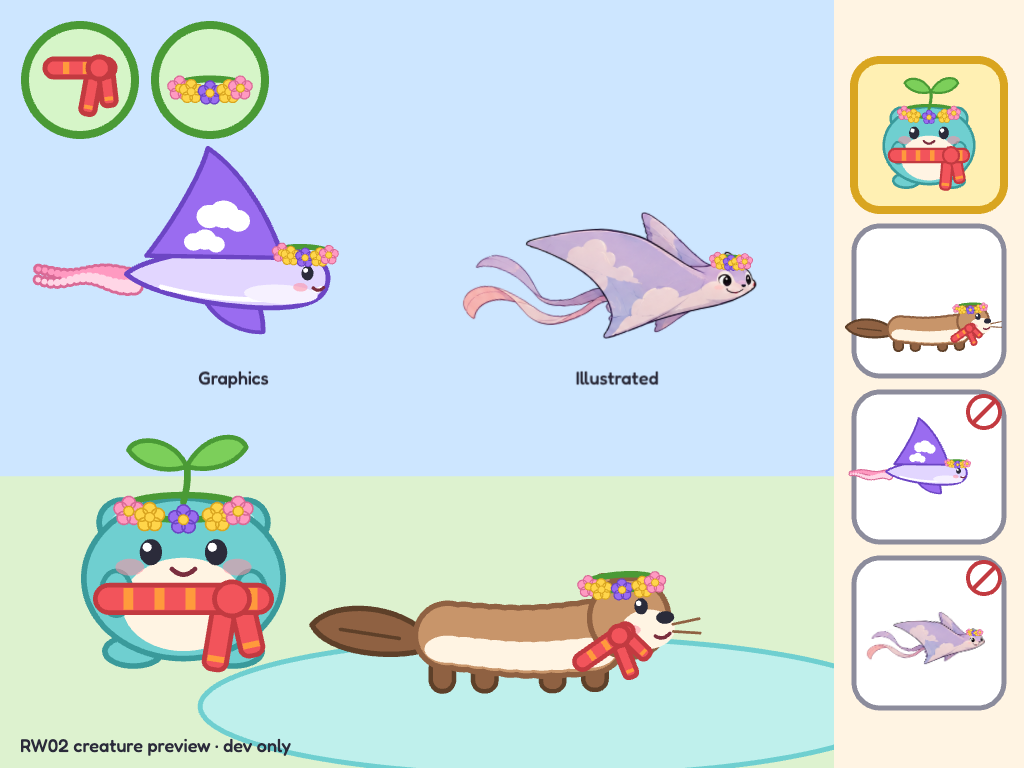
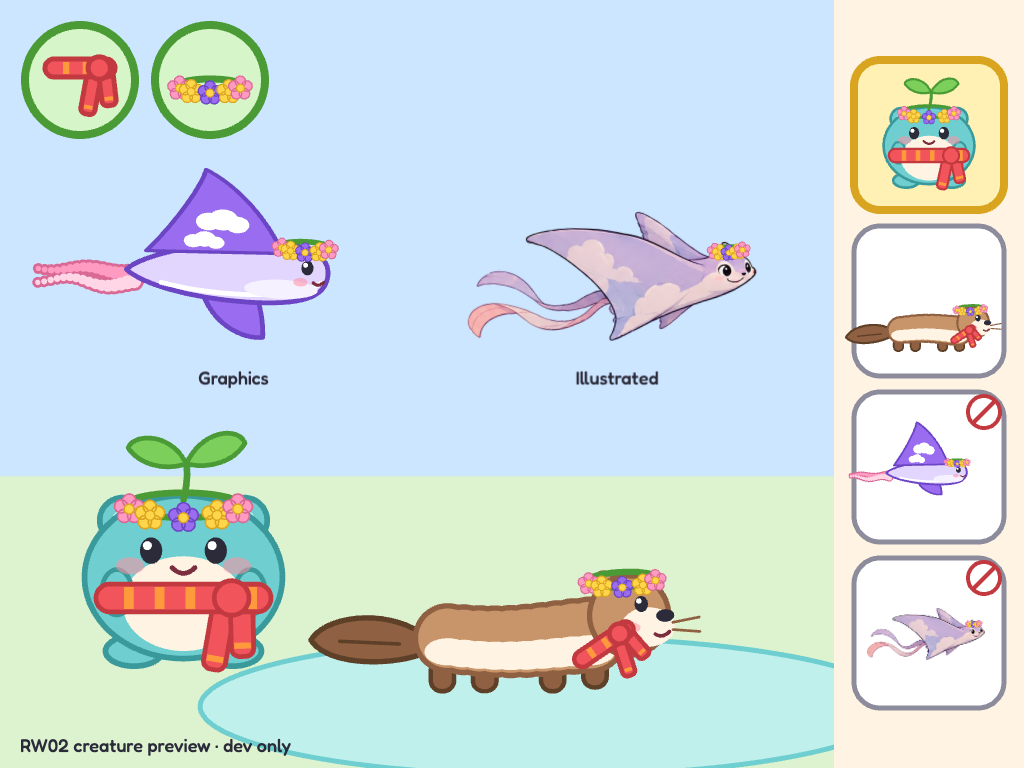
RW02b: no wing snap at reaction edges; mark generation step open
Accumulate the wingbeat phase and ease the reaction's strength, so the
start, end and re-tap of a reaction cannot jump the wing (a new test
bounds per-frame vertex movement; it failed at 15 px before). Refresh the
review images and word RW02b as partly done: candidate generation still
needs a session with an image tool.

diff --git a/src/art/creatures/glider-illustrated.ts b/src/art/creatures/glider-illustrated.ts
@@ -88,6 +88,10 @@ export class IllustratedGlider extends Creature {
   readonly rest: Float32Array;
   private readonly w: { wing: number; fin: number; ribbon: number; ribbonReach: number }[] = [];
   private readonly lids: Graphics[] = [];
+  /** Wingbeat phase, accumulated so a change of beat rate never jumps the wing. */
+  private phase = 0;
+  /** The reaction's excitement, eased, so a re-tap mid-reaction cannot snap the wing's size. */
+  private stir = 0;
 
   constructor(texture: Texture) {
     super();
@@ -129,7 +133,7 @@ export class IllustratedGlider extends Creature {
     this.animate();
   }
 
-  protected animate() {
+  protected animate(dt = 0) {
     const t = this.clock;
     const p = this.sincePoke;
     const looping = p < this.reactionLength;
@@ -141,8 +145,11 @@ export class IllustratedGlider extends Creature {
     this.craft.rotation = -a + 0.05 * Math.sin(t * 1.1);
 
     // A wingbeat is a wave from root to tip: the tip lags, so the wing bends rather than hinges.
-    const ex = this.excite(this.reactionLength);
-    const beat = looping ? 9 : 2.2;
+    // The beat quickens and slows with the reaction, and its phase accumulates, so nothing snaps.
+    this.stir += (this.excite(this.reactionLength) - this.stir) * Math.min(1, dt * 10);
+    const ex = this.stir;
+    this.phase += dt * (2.2 + 6.8 * ex);
+    const beat = this.phase;
     const lift = 16 + 22 * ex;
     const pos = this.mesh.geometry.positions;
     for (let i = 0, k = 0; i < pos.length; i += 2, k++) {
@@ -152,14 +159,14 @@ export class IllustratedGlider extends Creature {
       let dx = 0;
       let dy = 0;
       if (wing > 0) {
-        dy += lift * wing * Math.sin(t * beat - 1.1 * wing);
+        dy += lift * wing * Math.sin(beat - 1.1 * wing);
         // Drawn in towards the body as it rises, so the membrane keeps its length.
-        dx += 0.25 * lift * wing * wing * Math.cos(t * beat - 1.1 * wing);
+        dx += 0.25 * lift * wing * wing * Math.cos(beat - 1.1 * wing);
       }
-      if (fin > 0) dy -= 9 * (1 + ex) * fin * Math.sin(t * beat - 0.4);
+      if (fin > 0) dy -= 9 * (1 + ex) * fin * Math.sin(beat - 0.4);
       if (ribbon > 0) {
         const r = ribbonReach;
-        dy += ribbon * r * ((7 + 10 * ex) * Math.sin(t * 2.6 - 7 * r) + (looping ? 18 * Math.sin(u * Math.PI) : 0));
+        dy += ribbon * r * ((7 + 10 * ex) * Math.sin(t * 2.6 - 7 * r) + 18 * ex);
         dx += ribbon * r * 4 * Math.cos(t * 2.6 - 7 * r);
       }
       pos[i] = x + dx;

diff --git a/src/art/creatures/glider-illustrated.test.ts b/src/art/creatures/glider-illustrated.test.ts
@@ -114,6 +114,22 @@ describe('RW02b illustrated glider', () => {
     expect(Math.max(...ratios) - Math.min(...ratios)).toBeGreaterThan(0.5);
   });
 
+  it('never jumps between frames, at the start or end of a reaction or on a re-tap', () => {
+    const c = make();
+    for (let i = 0; i < 30; i++) c.update(1 / 60);
+    let prev = c.mesh.geometry.positions.slice();
+    let worst = 0;
+    for (let f = 0; f < 400; f++) {
+      if (f === 20 || f === 120 || f === 130) c.poke(); // into a reaction, past its end, then two quick taps
+      c.update(1 / 60);
+      const p = c.mesh.geometry.positions;
+      for (let i = 0; i < p.length; i += 2) worst = Math.max(worst, Math.hypot(p[i] - prev[i], p[i + 1] - prev[i + 1]));
+      prev = p.slice();
+    }
+    // The fastest honest motion (tip at full lift and the fast beat) is under 6 px a frame.
+    expect(worst).toBeLessThan(8);
+  });
+
   it('carries the crown through the loop and settles it back', () => {
     const c = make();
     dress(c, 'crown', true);

diff --git a/docs/rework/GENERATED-CREATURE-PILOT.md b/docs/rework/GENERATED-CREATURE-PILOT.md
@@ -1,6 +1,6 @@
 # RW02b: Generated creature art and animation pilot
 
-**Status:** pilot built 2026-10-17 ([PR #503](https://github.com/rjdunlap/neo/pull/503)); see [Pilot result](#pilot-result-2026-10-17). New candidate generation is still open: no image-generation tool was available to the building session. Defined 2026-10-17 as a follow-up to [RW02 / PR #499](https://github.com/rjdunlap/neo/pull/499), before production art is consumed by RW05. [Work-item index](WORK-ITEMS.md#rw02b-generated-creature-art-and-animation-pilot).
+**Status:** partly done. On 2026-10-17 ([PR #503](https://github.com/rjdunlap/neo/pull/503)) the preparation pipeline, mesh rig and comparison were proven on a stand-in cut from the concept sheet; see [Pilot result](#pilot-result-2026-10-17). **First-slice step 1 (generate candidates) is still ready** for a session that has an image-generation tool; the building session had none. Defined 2026-10-17 as a follow-up to [RW02 / PR #499](https://github.com/rjdunlap/neo/pull/499), before production art is consumed by RW05. [Work-item index](WORK-ITEMS.md#rw02b-generated-creature-art-and-animation-pilot).
 
 ## Developer decision and ownership
 
@@ -64,7 +64,7 @@ Built on `claude/rw02b-illustrated-glider` from merged `main` (`b6b2a68`). The u
 **The art is the concept sheet's glider, not a new generation.** This session had no image-generation tool. So the pilot cut the "Illustrated adventure" glider out of the committed concept sheet as a labelled stand-in, to prove preparation, rig and comparison.
 - **Rebuild:** run `node scripts/creature-art/prepare-glider.mjs`.
 - **Manifest:** [`src/art/creatures/illustrated/README.md`](../../src/art/creatures/illustrated/README.md).
-- **Still open:** step 1's candidate set (several generated gliders, a chosen design, consistent re-generation for poses or layers). The next session with an image tool should start there, re-run the same preparation and keep the rig.
+- **Still open:** step 1's candidate set (several generated gliders, a chosen design, consistent re-generation for poses or layers). The next session with an image tool should start there, re-run the same preparation and keep the rig. The next-session instruction below still applies, starting at step 1.
 
 **Animation: a deformable mesh, not layers.** A flat image has no hidden overlap to cut layers from, so the sprite rides a 30 × 14 mesh and vertices move by weight:
 - the body and face are pinned;
@@ -72,7 +72,7 @@ Built on `claude/rw02b-illustrated-glider` from merged `main` (`b6b2a68`). The u
 - the far fin beats against the wing;
 - the ribbons ripple behind the trailing edge.
 
-The wing beats at 2.2 per second at idle and 9 per second during the touch loop. The painted eyes cannot close, so a lid of wing colour with a lash line covers each one for a blink.
+The wing beats at 2.2 rad/s at idle and eases up to 9 rad/s during the touch loop. Its phase accumulates and the reaction's strength is eased, so neither the start or end of a reaction nor a quick re-tap snaps the wing; a test bounds every vertex's movement per frame, and it failed at 15 px before this was fixed. The painted eyes cannot close, so a lid of wing colour with a lash line covers each one for a blink.
 
 ![Six phases of the touch wingbeat, crown on](concepts/rw02b-glider-wingbeat.png)
 
@@ -84,7 +84,7 @@ The wing beats at 2.2 per second at idle and 9 per second during the touch loop.
 | Headless preview, four gliders plus sprout and river | — | 7–10 fps in software rendering, against ≈21 fps for RW02's six creatures in the same kind of harness; says nothing about an iPad |
 
 **Proof.**
-- **Unit tests** (`glider-illustrated.test.ts`, 6 tests):
+- **Unit tests** (`glider-illustrated.test.ts`, 7 tests):
   - same species, slots and scarf misfit as the Graphics glider;
   - touch circle ≥ 100 units at stage scale;
   - the sprite's recorded size, a transparent border and opaque eyes;
@@ -92,6 +92,7 @@ The wing beats at 2.2 per second at idle and 9 per second during the touch loop.
   - the wing tip travels more than 12 px;
   - no painted pixel stretches past double;
   - the tip/mid ratio varies (a bend, not a hinge);
+  - no vertex moves more than 8 px between frames through a reaction's start, its end and a quick re-tap;
   - the crown rides the loop and settles;
   - destroy frees the geometry and not the shared texture.
 - **Preview probe** (`test-results/rw02b-probe.mjs`, Chromium headless, 1024 × 768 and 768 × 1024):
@@ -99,7 +100,7 @@ The wing beats at 2.2 per second at idle and 9 per second during the touch loop.
   - the crown and scarf toggles work dressed and bare;
   - cards fit;
   - leaving to the chooser raised no page errors.
-- **Wingbeat strips:** both strips (idle and touch, six phases each) were inspected as stills. The real-time motion was not watched by a person.
+- **Wingbeat strips:** three strips were inspected as stills: idle, touch, and the reaction's end with the loop live (six frames each). The real-time motion was not watched by a person.
 - **Edges:** the sprite was checked on light, dark and checkerboard backgrounds.
 - **Production build:** no sprite or preview code in `dist/` or the precache, so no offline check is needed.
 
@@ -111,6 +112,7 @@ The wing beats at 2.2 per second at idle and 9 per second during the touch loop.
 - **Covered ears.** The crown covers the ear tips.
 - **Painted lids.** The blink lids are painted patches. A generated eye-closed variant would look better.
 - **Ribbon kink.** The upper ribbon compresses slightly where it leaves the wing at the beat's extreme.
+- **Loop restart.** A re-tap mid-reaction restarts the craft's loop with a small jump (about 17 units), inherited from the Graphics glider; the mesh itself does not jump.
 - **No underside view.** The wing never shows its underside; a mesh cannot fold, so a deeper beat needs alternate artwork.
 
 **Recommended workflow:**

diff --git a/docs/rework/WORK-ITEMS.md b/docs/rework/WORK-ITEMS.md
@@ -12,7 +12,7 @@ Scope source: [rework brief](README.md). The [roadmap ready list](../ROADMAP.md#
 | --- | --- | --- | --- |
 | [RW01](https://github.com/rjdunlap/neo/issues/485) | Name and story | packet written 2026-10-17 ([NAME-AND-STORY.md](NAME-AND-STORY.md)); final name is a developer decision | None |
 | [RW02](https://github.com/rjdunlap/neo/issues/486) | Creature art and animation prototype | prototype and packet done 2026-10-17 ([CREATURE-ART.md](CREATURE-ART.md)); production style is a developer decision | None; use provisional names |
-| [RW02b](#rw02b-generated-creature-art-and-animation-pilot) | Generated creature art and animation pilot | pilot built 2026-10-17 ([PR #503](https://github.com/rjdunlap/neo/pull/503), [result](GENERATED-CREATURE-PILOT.md#pilot-result-2026-10-17)) from the concept sheet's glider; new candidate generation open (needs an image tool) | RW02 prototype; no RW03 dependency |
+| [RW02b](#rw02b-generated-creature-art-and-animation-pilot) | Generated creature art and animation pilot | partly done 2026-10-17 ([PR #503](https://github.com/rjdunlap/neo/pull/503), [result](GENERATED-CREATURE-PILOT.md#pilot-result-2026-10-17)): pipeline, rig and comparison proven on a concept-sheet stand-in; **step 1, generating candidates, still ready** for a session with an image tool | RW02 prototype; no RW03 dependency |
 | [RW03](https://github.com/rjdunlap/neo/issues/487) | Home and navigation packet | packet and wireframe done 2026-10-17 ([HOME-NAVIGATION.md](HOME-NAVIGATION.md)); production cutover waits for RW08 | Reconciled D1b; RW01 informs language |
 | [RW04](https://github.com/rjdunlap/neo/issues/488) | Welcome adventure and learning packet | ready, docs definition | Existing game/source audit; coordinate RW01–RW03 |
 | [RW05](https://github.com/rjdunlap/neo/issues/489) | Creature collection and active companion | define after upstream packets | RW02, RW03 |
@@ -61,7 +61,7 @@ Scope source: [rework brief](README.md). The [roadmap ready list](../ROADMAP.md#
 
 ## RW02b: Generated creature art and animation pilot
 
-**Status:** pilot built 2026-10-17 ([result](GENERATED-CREATURE-PILOT.md#pilot-result-2026-10-17)); candidate generation still open. Bounded follow-up to RW02, with sprite permission approved by the developer on 2026-10-17. The assistant creates and prepares the assets; no developer drawing work is required. No new GitHub issue has been created for this follow-up.
+**Status:** partly done 2026-10-17 ([result](GENERATED-CREATURE-PILOT.md#pilot-result-2026-10-17)); step 1, generating candidates, is still ready and needs an image-generation tool. Bounded follow-up to RW02, with sprite permission approved by the developer on 2026-10-17. The assistant creates and prepares the assets; no developer drawing work is required. No new GitHub issue has been created for this follow-up.
 
 **First slice:** one illustrated cloud glider, generated from the concept reference and animated with a small layered/deformable or pose-based rig; idle, wingbeat, touch reaction, collection portrait and crown, compared with the existing Graphics glider in the isolated dev preview. No full-cast reskin or production route/save change.
 

diff --git a/docs/ROADMAP.md b/docs/ROADMAP.md
@@ -64,7 +64,7 @@ Before claiming unstarted shell, pet, story or broad visual work in chunks 3, 7 
 
 | # | Chunk | Status | One session's next slice | Check tier | Detail |
 | --- | --- | --- | --- | --- | --- |
-| 30 | **Creature-world rework** | ready for RW04 definition; RW03 [navigation packet](rework/HOME-NAVIGATION.md) done (RW01 [packet](rework/NAME-AND-STORY.md) and RW02 [art prototype](rework/CREATURE-ART.md) done 2026-10-17; RW02b [illustrated glider pilot](rework/GENERATED-CREATURE-PILOT.md#pilot-result-2026-10-17) built, new candidate generation open) | After active claims, take the next eligible exploration; RW05–RW12 wait for their upstream packets | Docs: links/diff; RW02: scoped art prototype checks | [Direction](rework/README.md), [work items](rework/WORK-ITEMS.md), [epic #484](https://github.com/rjdunlap/neo/issues/484) |
+| 30 | **Creature-world rework** | ready for RW04 definition; RW03 [navigation packet](rework/HOME-NAVIGATION.md) done (RW01 [packet](rework/NAME-AND-STORY.md) and RW02 [art prototype](rework/CREATURE-ART.md) done 2026-10-17; RW02b [illustrated glider pilot](rework/GENERATED-CREATURE-PILOT.md#pilot-result-2026-10-17) partly done: pipeline and rig proven on a stand-in, generating candidates still ready for a session with an image tool) | After active claims, take the next eligible exploration; RW05–RW12 wait for their upstream packets | Docs: links/diff; RW02: scoped art prototype checks | [Direction](rework/README.md), [work items](rework/WORK-ITEMS.md), [epic #484](https://github.com/rjdunlap/neo/issues/484) |
 | 13 | **More to play in every band** (the developer, 2026-10-10: more quantity across bands) | ready | Fresh content inside a level or a new level from a dive; the [ready list](#ready-to-build-now) names the current ones | Content: typecheck, rule tests, one screenshot; new levels: new-levels tier | [Below](#more-to-play-in-every-band) |
 | 2 | **Deepen short ladders** with a real next decision | ready where a dive defines the slice; define otherwise | A defined slice from the [short ladders](#short-ladders-in-order) table, or a definition for an undefined direction | Docs only for definitions; then new-levels or new-interaction tier | [Below](#short-ladders-in-order) |
 | 11 | **A second lap level for favorites** | ready | Other below-level-1 entries wait on each dive's gates; append the level and place it with `order` | New levels on an existing interaction | Wave-2 [deep dives](deep-dives/README.md) |

diff --git a/docs/VERIFICATION.md b/docs/VERIFICATION.md
@@ -3,10 +3,10 @@
 ## 2026-10-17 — RW02b illustrated glider pilot
 
 - [PR #503](https://github.com/rjdunlap/neo/pull/503), `claude/rw02b-illustrated-glider`, based on `b6b2a68`: illustrated glider on a deformable mesh beside the Graphics glider in the dev-only `/?creatures` preview ([result](rework/GENERATED-CREATURE-PILOT.md#pilot-result-2026-10-17)). The art is cut from the committed concept sheet; no new image was generated (no tool in the session).
-- Typecheck passed. The 6 new creature tests passed, alongside the 3 existing ones. The full unit suite passed except 5 known-heavy Ferry Jam, Peg Garden and Penguin Slide tests, which time out under default parallel load; those files passed 41/41 with `--maxWorkers=2`.
+- Typecheck passed. The 7 new creature tests passed, alongside the 3 existing ones; the frame-to-frame test failed at 15 px before the wingbeat-phase fix. The full unit suite passed except 5 known-heavy Ferry Jam, Peg Garden and Penguin Slide tests, which time out under default parallel load; those files passed 41/41 with `--maxWorkers=2`.
 - The build passed, with no sprite or preview code in `dist/` or the precache, so no offline check was needed.
 - One-off probe `test-results/rw02b-probe.mjs` against `http://localhost:5197/?creatures`, 1024×768 and 768×1024: double tap, accessory toggles, card fit and exit to the chooser all passed, with no page errors. Headless fps was 7–10 in software rendering.
-- Inspected stills: idle and touch wingbeat strips; blink open and shut; sprite edges on light, dark and checkerboard. Real-time motion was not watched by a person.
+- Inspected stills: idle, touch and reaction-end wingbeat strips; blink open and shut; sprite edges on light, dark and checkerboard. Real-time motion was not watched by a person.
 - Not run: game, world and couch suites (no game, route or save changed); iPad performance and touch; child preference.
 
 ## 2026-10-17 — RW03 home and navigation packet
